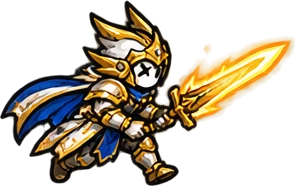
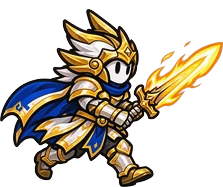
fix(siege): redraw the master swordsman's first pose

diff --git a/bug-hunter/src/siege/cartoon/view.ts b/bug-hunter/src/siege/cartoon/view.ts
@@ -34,7 +34,7 @@ function picture(path: string) {
 }
 /** Pictures redrawn under the same file names: a browser keeps the old copy for days (`/images/` may be served stale
     while it revalidates), so their address carries a revision, raised each time one is drawn again. */
-const ART_REV: [string, number][] = [['siege/units/boss-dark-king-', 2], ['siege/units/foe-bellringer-1-3', 2], ['siege/units/foe-wraith-1-3', 2]];
+const ART_REV: [string, number][] = [['siege/units/boss-dark-king-', 2], ['siege/units/foe-bellringer-1-3', 2], ['siege/units/foe-wraith-1-3', 2], ['siege/units/ally-swordsman-5-0', 2]];
 const art = (file: string) => { const r = ART_REV.find(([k]) => file.startsWith(k)); return `/images/game/${file}${r ? `?r=${r[1]}` : ''}`; };
 /** Every troop's sheet (`siege/units/...`): 0 standing, 1 attacking, 2 hurt. Walking, breathing, lunges and falls
     are animated here. */

diff --git a/bug-hunter/src/version.ts b/bug-hunter/src/version.ts
@@ -4,7 +4,7 @@
  * This folder migration preserves the public game URL, saves and gameplay.
  * The build stamp changes automatically on each deployment.
  */
-export const GAME_VERSION = '1.16.33';
+export const GAME_VERSION = '1.16.34';
 
 declare const __GAME_BUILD__: { commit: string; built: string };
 /** Build stamp from the shared Vite configuration; safe outside Vite too. */

diff --git a/bug-hunter/CHANGELOG.md b/bug-hunter/CHANGELOG.md
@@ -4,6 +4,10 @@
 
 This changelog tracks game-version changes starting with v1.12.55. Earlier releases are not reconstructed here.
 
+## 1.16.34 - 2026-11-24
+
+- Siege Cartoon: the master swordsman's first pose (`ally-swordsman-5-0`, walk step A and his stance) is redrawn to match his other poses: gold winged helmet, round white face, blue cape, the flaming sword forward, the other foot leading so it alternates with step B. It was an older drawing. The sheet keeps its height, so every pose keeps its scale; its address carries a new revision so browsers fetch it again.
+
 ## 1.16.33 - 2026-11-24
 
 - The Siege is played here again, as before 1.16.31, with its progress here. Tapping it (the cover's last slot, the book's «Launch siege») now asks first: «Play here» opens it inside Bug Hunter; «Open Cartoon Siege apart ↗» opens its own site in a new tab and hands this Siege progress over (`cartoonSiege.ts`, only the first time, when the site has none); Back returns to the menu. The Siege texts are back to what they were.
